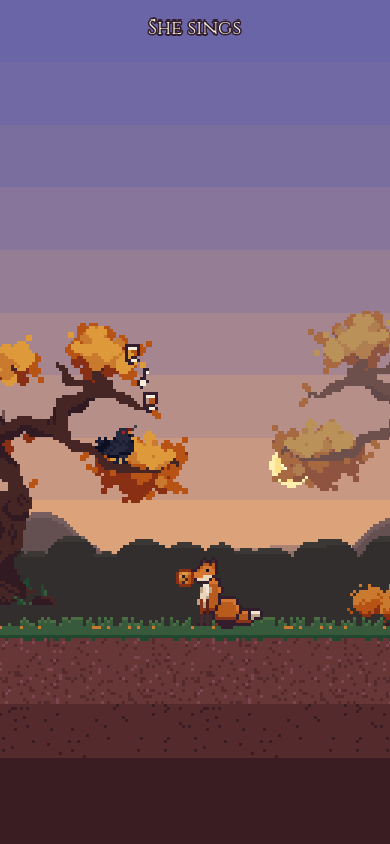
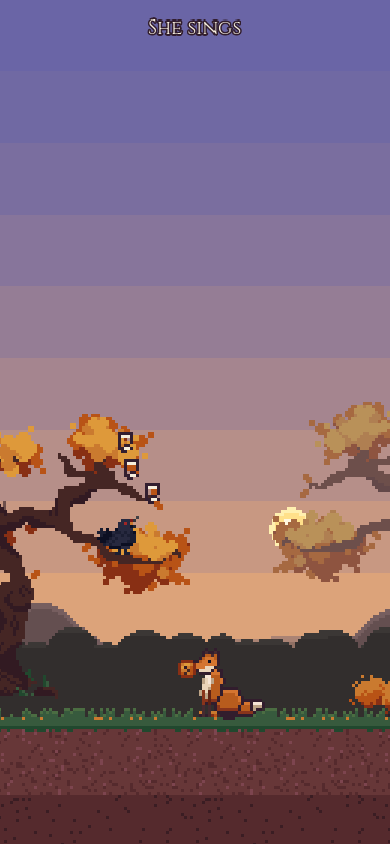
Portrait phones show less empty ground: the earth is kept to about 15% of an upright screen
Claude-Session: https://claude.ai/code/session_01AyDpKC7SbdM4GsUKXy342w

diff --git a/build/index.html b/build/index.html
@@ -111,7 +111,7 @@ body {
 
 		<script src="index.js"></script>
 		<script>
-const GODOT_CONFIG = {"args":[],"canvasResizePolicy":2,"emscriptenPoolSize":8,"ensureCrossOriginIsolationHeaders":true,"executable":"index","experimentalVK":false,"fileSizes":{"index.pck":548892,"index.wasm":39514754},"focusCanvas":true,"gdextensionLibs":[],"godotPoolSize":4};
+const GODOT_CONFIG = {"args":[],"canvasResizePolicy":2,"emscriptenPoolSize":8,"ensureCrossOriginIsolationHeaders":true,"executable":"index","experimentalVK":false,"fileSizes":{"index.pck":548988,"index.wasm":39514754},"focusCanvas":true,"gdextensionLibs":[],"godotPoolSize":4};
 const GODOT_THREADS_ENABLED = false;
 const engine = new Engine(GODOT_CONFIG);
 
